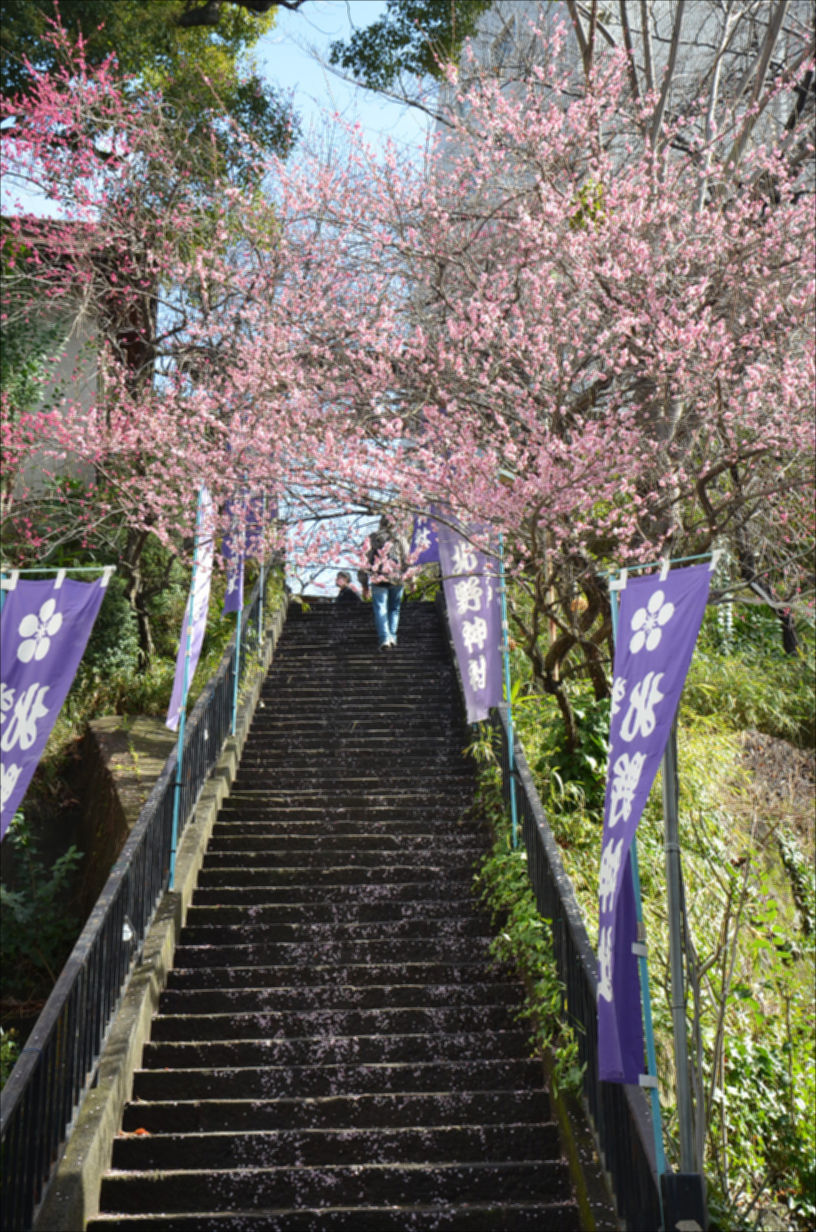
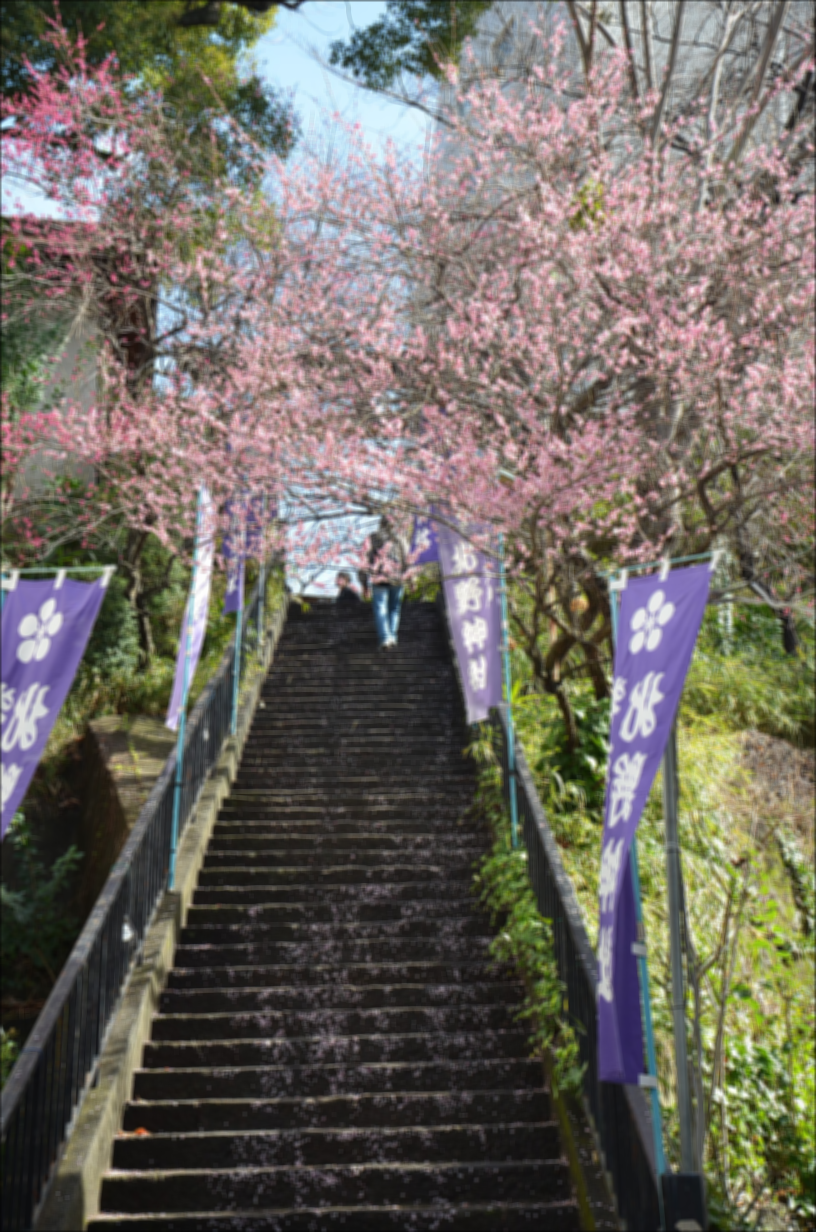
Updated version

diff --git a/02/main.py b/02/main.py
@@ -4,9 +4,9 @@ import timeit
 import cv2
 import numpy as np
 
-INPUT_IMAGE =  'img/02.jpg'
-WINDOW_HEIGHT = 3
-WINDOW_WIDTH = 3
+INPUT_IMAGE =  'img/ex.jpg'
+WINDOW_HEIGHT = 5
+WINDOW_WIDTH = 5
 
 
 # Applies a mean Filter in an image using a simple algorithm
@@ -92,9 +92,24 @@ def mean_filter_integral(img_in, int_img, w_height, w_width):
 
     for y in range(height):
         for x in range(width):
-            if y-1 - math.floor(w_height/2) >= 0 and x-1 - math.floor(w_width/2) >= 0 and y+1 + math.floor(w_height/2) < height and x+1 + math.floor(w_width/2) < width:
+                # Defines 4 variables which will be used to pick 4 points within the integral image
+                p1 = [y-1 - math.floor(w_height/2), x + math.floor(w_width/2)]
+                p2 = [y + math.floor(w_height/2), x + math.floor(w_width/2)]
+                p3 = [y + math.floor(w_height/2), x-1 - math.floor(w_width/2)]
+                p4 = [y-1 - math.floor(w_height/2), x-1 - math.floor(w_width/2)]
 
-                img_out[y, x] = (int_img[y + math.floor(w_height/2), x + math.floor(w_width/2)] - int_img[y-1 - math.floor(w_height/2), x + math.floor(w_width/2)] - int_img[y + math.floor(w_height/2), x-1 - math.floor(w_width/2)] + int_img[y-1 - math.floor(w_height/2), x-1 - math.floor(w_width/2)]) / (w_width * w_height)
+                # Handles image margin
+                if p1[0] < 0: # point 1 and 4  < image min-height
+                    p1[0], p4[0] = 0, 0
+                if p3[1] < 0: # point 3 and 4 < image min-width
+                    p3[1], p4[1] = 0, 0
+                if p2[0] > height-1: # point 2 and 3 > image max-height
+                    p2[0], p3[0] = height-1, height-1
+                if p2[1] > width-1: # point 1 and 2 > image max-width
+                    p2[1],p1[1] = width-1, width-1
+                
+                img_out[y, x] = (int_img[p2[0],p2[1]] - int_img[p1[0],p1[1]] - int_img[p3[0],p3[1]] + int_img[p4[0],p4[1]]) / (w_width * w_height)
+
 
     return img_out
 
